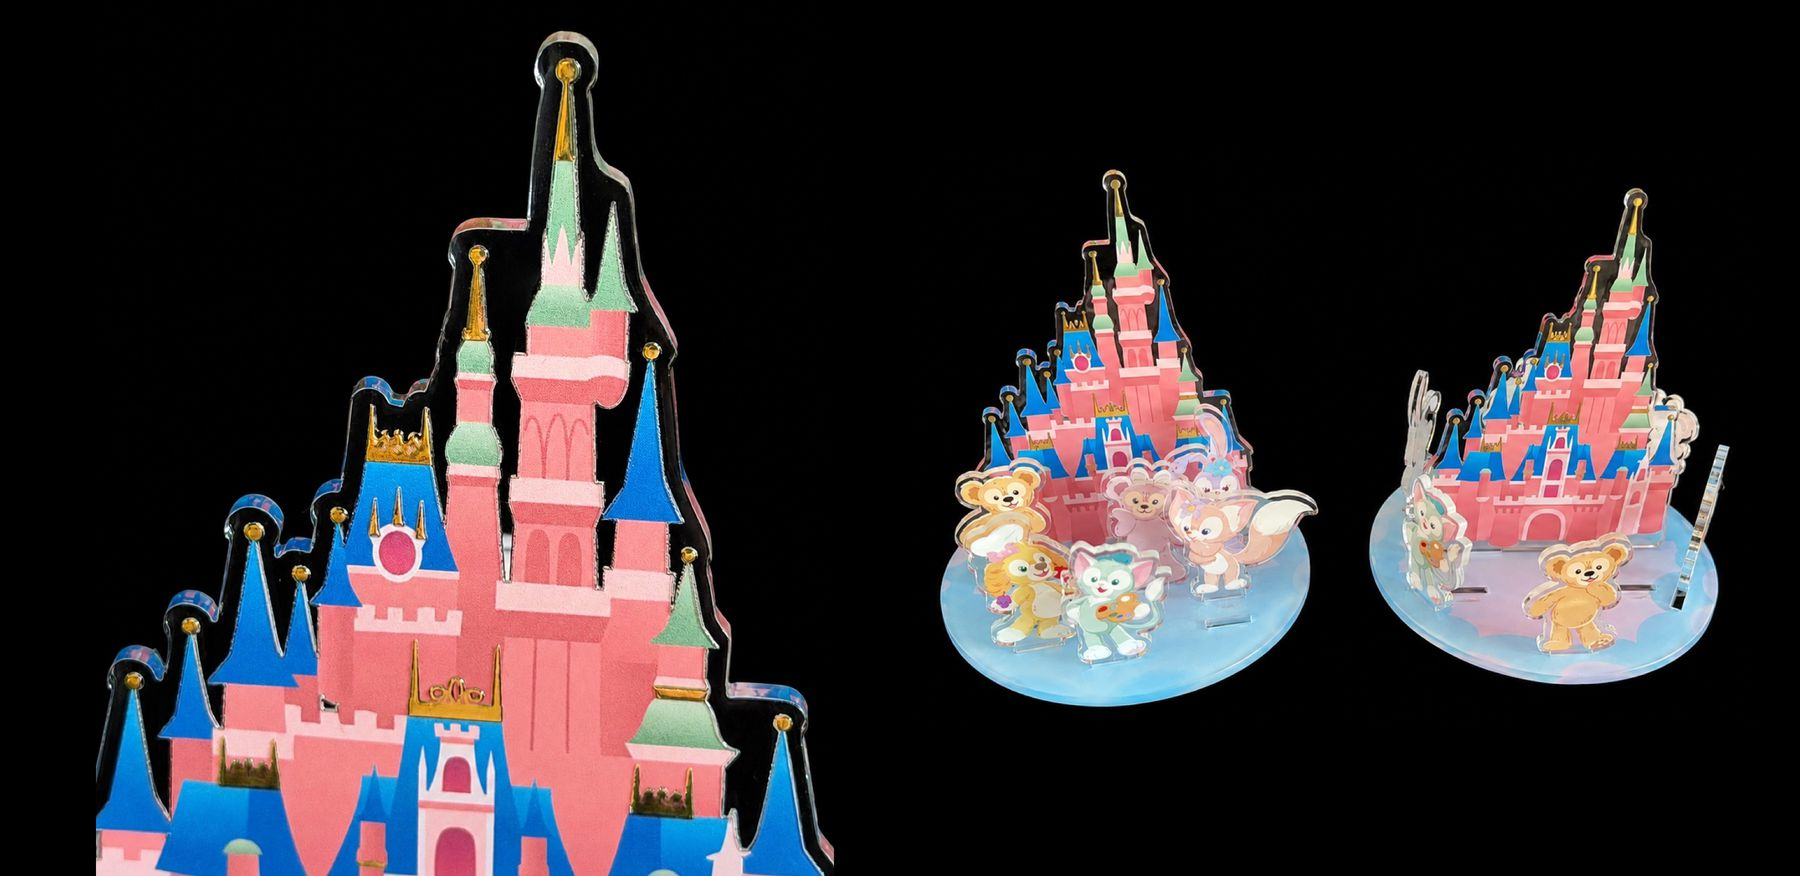
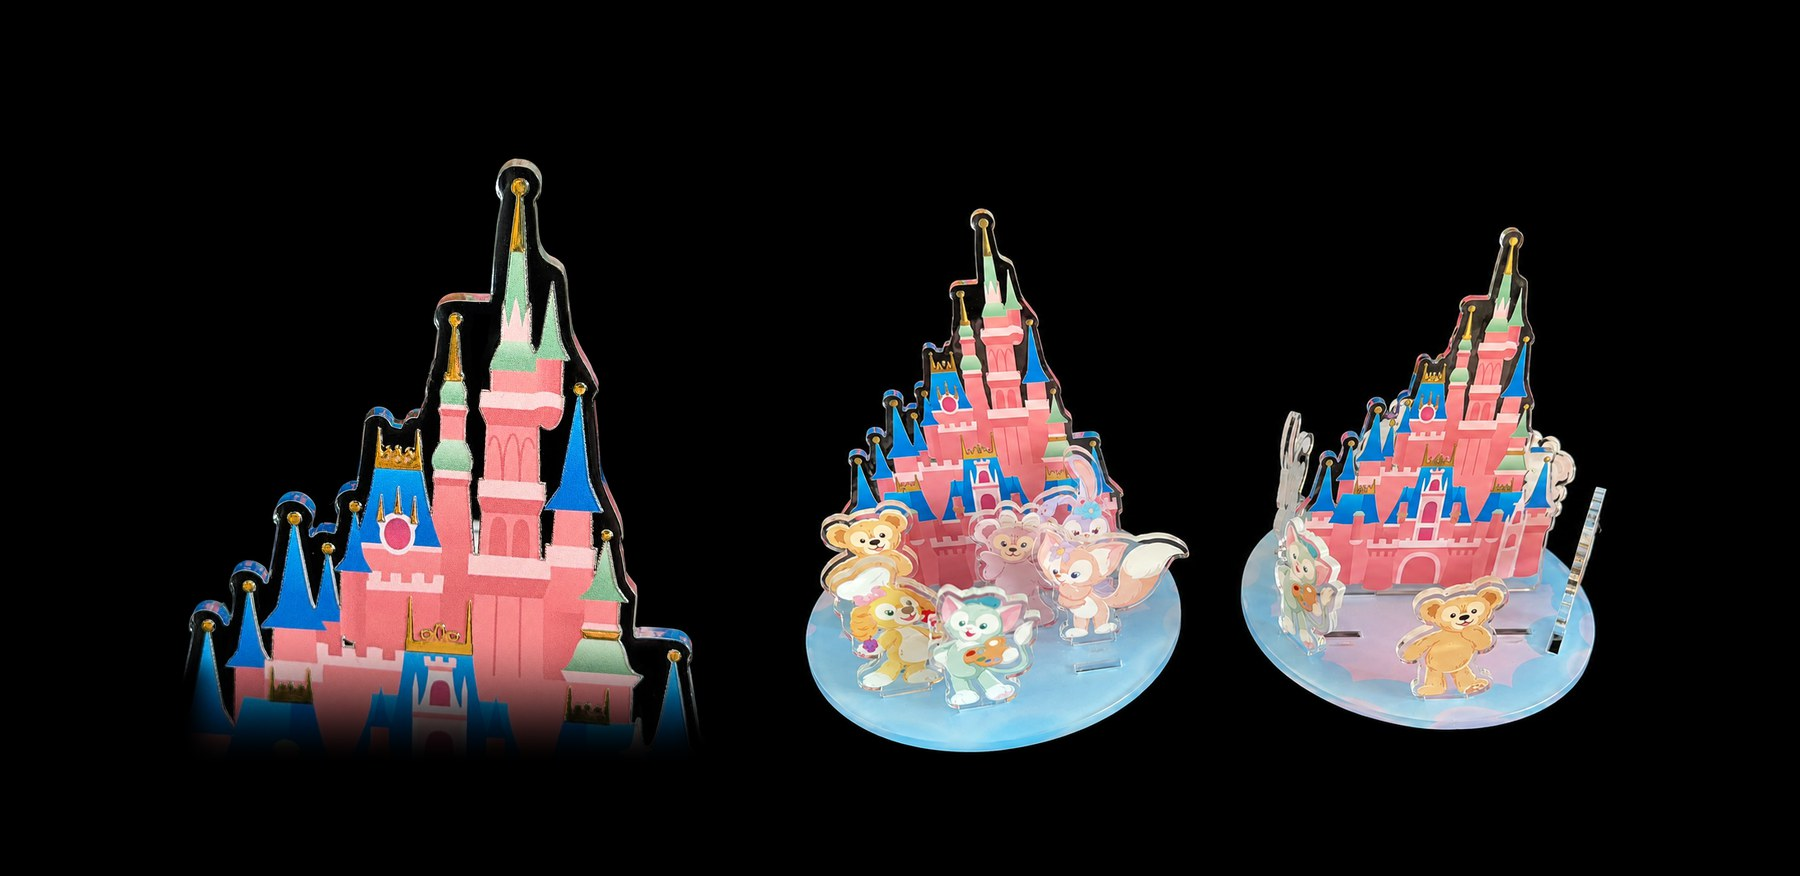
Hero: 02 keeps only the Chip group; 06 shows the castle close-up and sets at the same size
02: the Daisy group repeated Scrooge, Donald and a duckling, so only the
group with Chip stays, on phone and desktop (~1.4x larger on desktop).

06: the close-up used to dwarf the two castle sets (and ran off the bottom
of the frame). They are now drawn at the same size - side by side on
desktop, stacked on the phone. The close-up photo is cropped through the
castle's base, so that edge fades into black instead of showing a straight
cut, and the close-up is drawn 8% taller so its visible part matches.

diff --git a/index.html b/index.html
@@ -114,7 +114,7 @@
       <figure class="media fade__item">
         <picture>
           <source media="(max-width: 560px)"
-                  srcset="assets/img/show-portrait/06-castle-acrylic.jpg" width="1000" height="1946">
+                  srcset="assets/img/show-portrait/06-castle-acrylic.jpg" width="1200" height="1500">
           <img src="assets/img/show/06-castle-acrylic.jpg" width="1800" height="876" alt="Plastic injection — castle pieces"
              loading="lazy" decoding="async">
         </picture>
